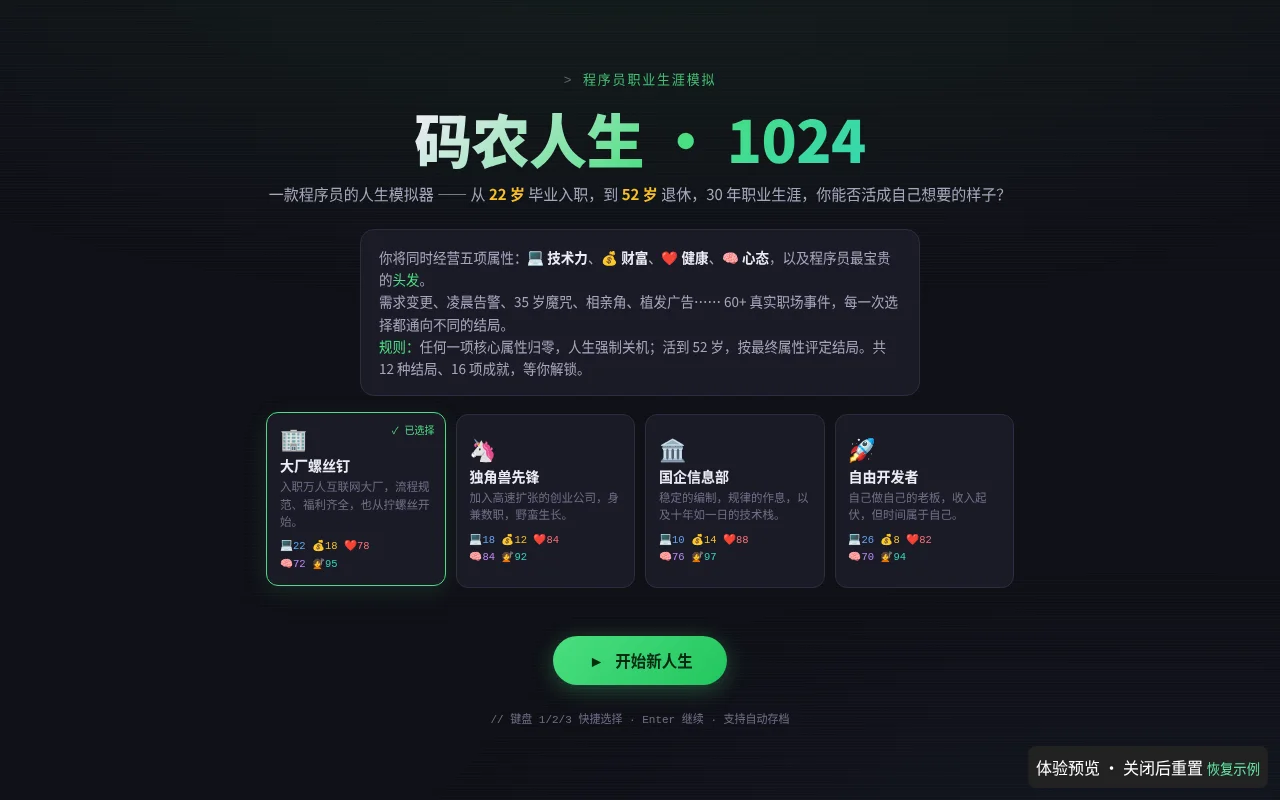
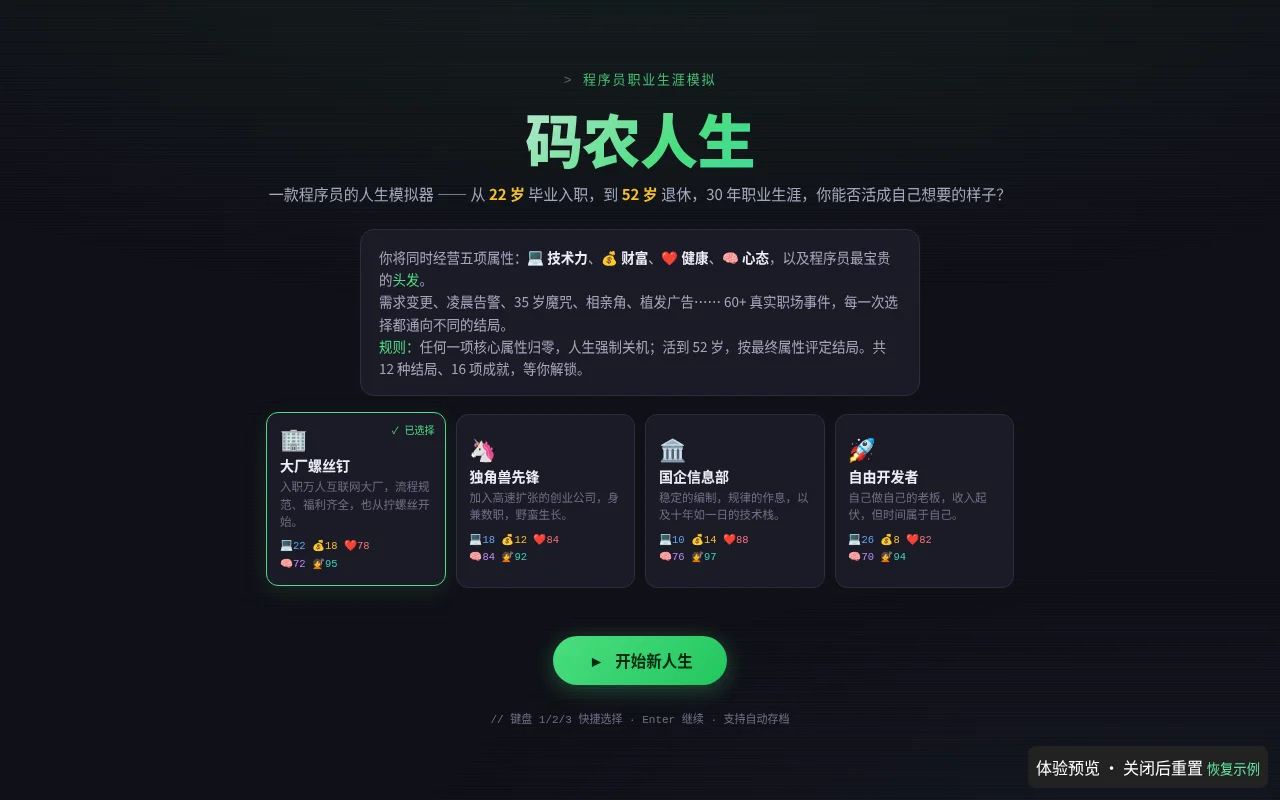
Remove event branding from career simulator

Changed region(s): [[0.3125, 0.125, 0.6875, 0.2188]]

diff --git a/afcb1ccf69b5977e4fd8ce45/spec/product.md b/afcb1ccf69b5977e4fd8ce45/spec/product.md
@@ -1,4 +1,4 @@
-# 码农人生 · 1024
+# 码农人生
 
 选择职业路线，从 22 岁起逐年选择事件选项，五项属性随选择改变。健康、心态或技术归零时提前结束；超过 52 岁时依据最终属性评定结局。支持履历、成就、重新开始和复制成绩单，游戏进度保存在应用数据库。
 

diff --git a/afcb1ccf69b5977e4fd8ce45/showcase/prompt.md b/afcb1ccf69b5977e4fd8ce45/showcase/prompt.md
@@ -1,3 +1,3 @@
-# 码农人生 · 1024
+# 码农人生
 
 制作一个程序员职业生涯模拟游戏：选择路线，应对事件，观察属性、成就与结局。使用 `tiana web init-template afcb1ccf69b5977e4fd8ce45` 获取源码后可继续修改事件和路线。

diff --git a/afcb1ccf69b5977e4fd8ce45/README.md b/afcb1ccf69b5977e4fd8ce45/README.md
@@ -1,4 +1,4 @@
-# 码农人生 · 1024
+# 码农人生
 
 单人职业生涯模拟游戏，选择职业路线并应对事件，进度存储在应用数据库。
 
